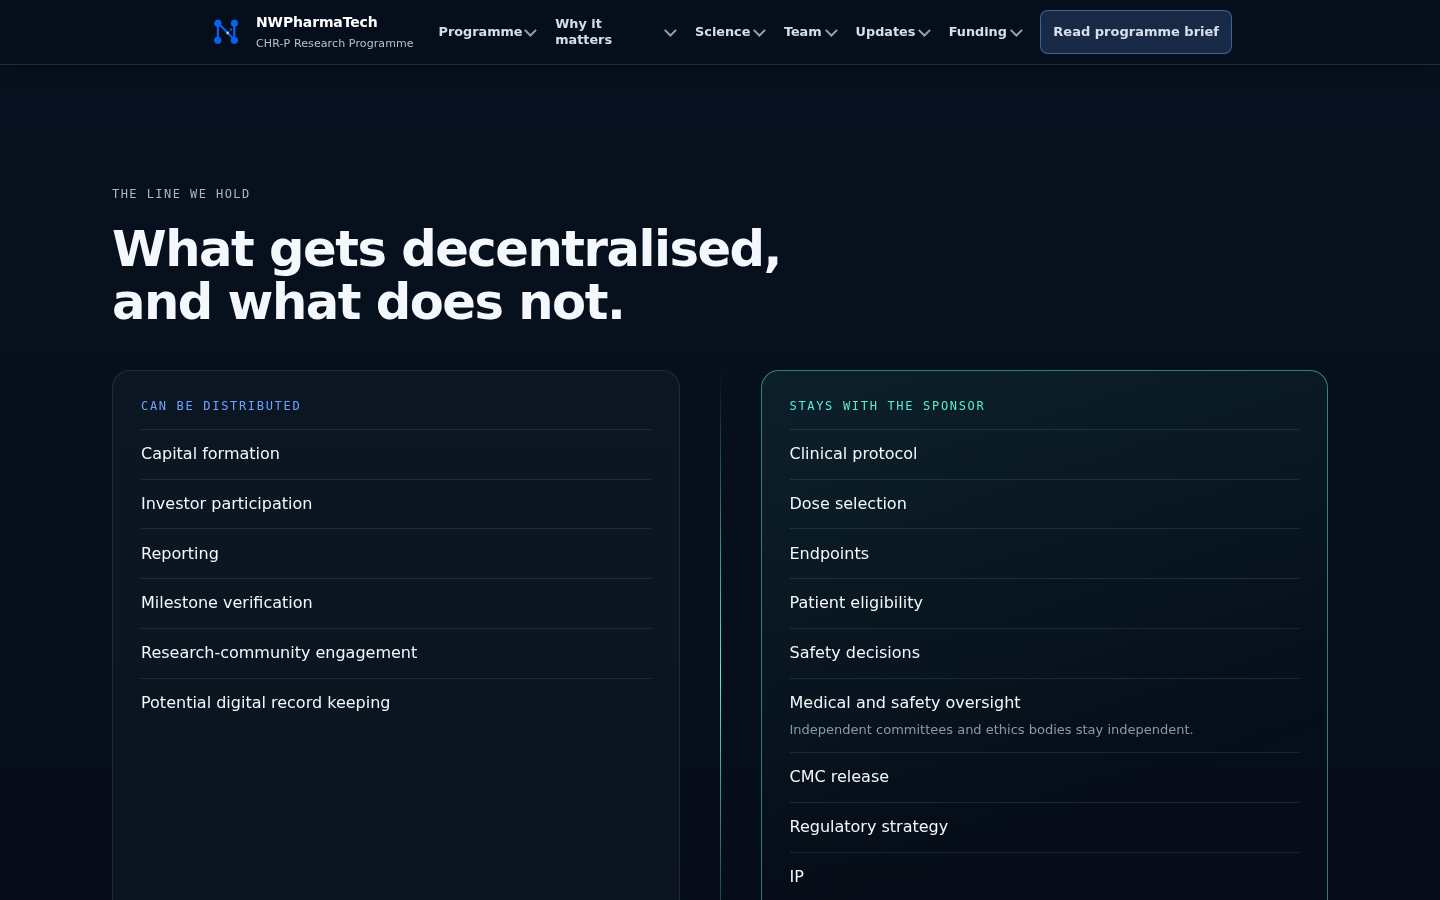
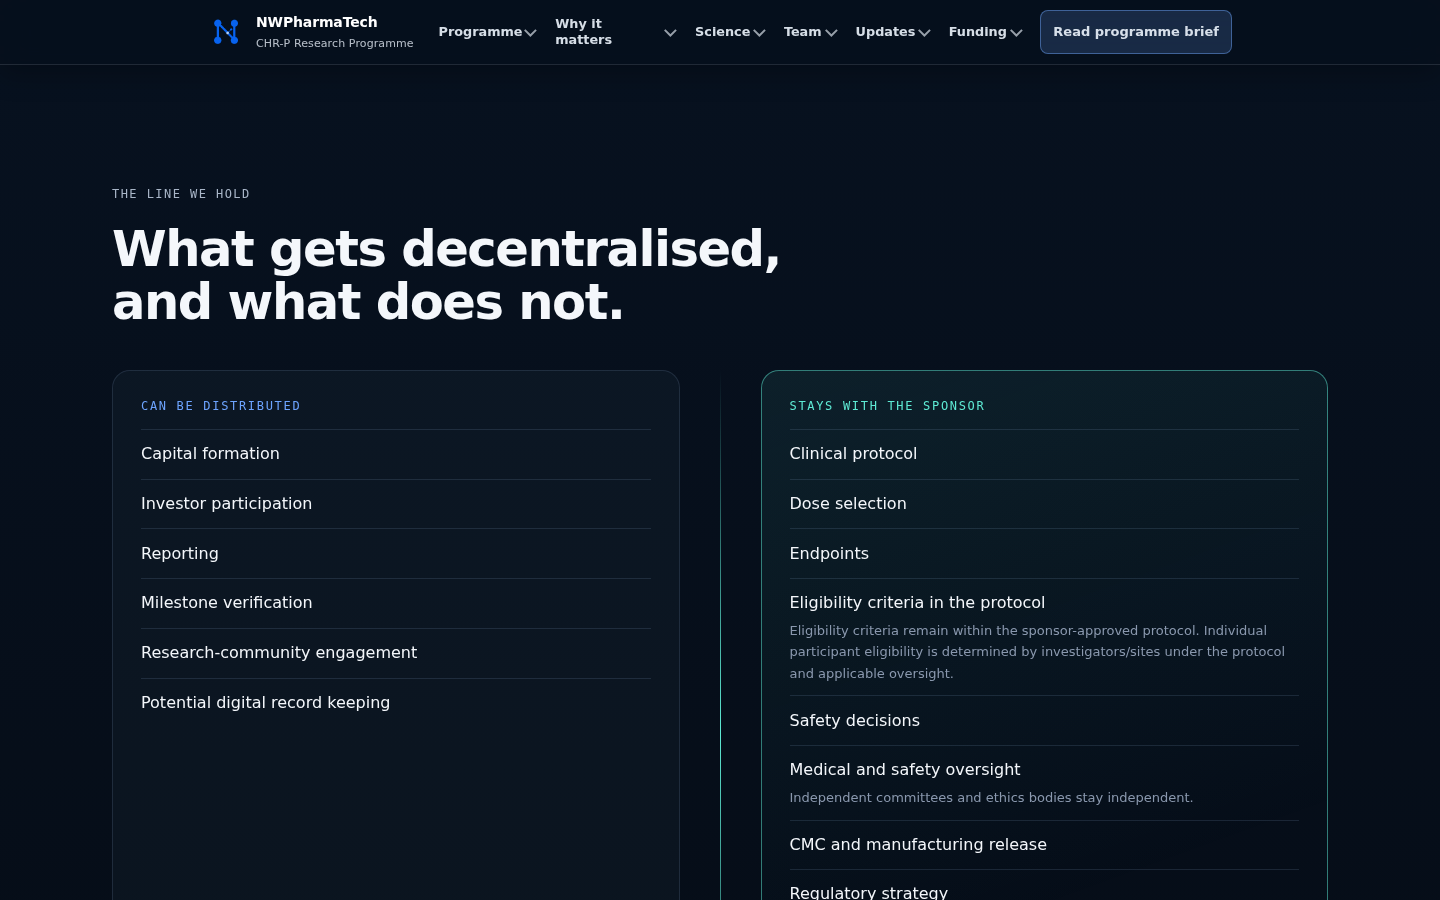
NWPT-055 final: checks recorded; first draw and reveal set-up in the next frame
Focused test 92/92; regression suites identical to base; Lighthouse
mobile 98/100/96/100, desktop 100/100/96/100. dpf.js runs its first
flow draw and reveal set-up in requestAnimationFrame, removing the
start-up forced layout. Re-captured sponsor layer, split, rails, FAQ.

Claude-Session: https://claude.ai/code/session_01TYdFtUNnf73gKgrVG8b6gR

Changed region(s): [[0.5312, 0.6533, 0.875, 1.0]]

diff --git a/nwpharmatech-website/release-032/site/dpf.js b/nwpharmatech-website/release-032/site/dpf.js
@@ -144,10 +144,10 @@
   }
   window.addEventListener("scroll", onScroll, { passive: true });
   window.addEventListener("resize", onScroll, { passive: true });
-  drawFlow();
+  onScroll();   // first draw in the next frame, not as a forced layout during start-up
 
   // ---- reveal cards that start below the fold (nothing already on screen is hidden, so nothing flashes)
-  if (motion && "IntersectionObserver" in window) {
+  if (motion && "IntersectionObserver" in window) window.requestAnimationFrame(function () {
     var io = new IntersectionObserver(function (entries) {
       entries.forEach(function (en) { if (en.isIntersecting) { en.target.classList.add("is-in"); io.unobserve(en.target); } });
     }, { threshold: 0.12, rootMargin: "0px 0px -6% 0px" });
@@ -160,7 +160,7 @@
       el.style.transitionDelay = (i % 3) * 70 + "ms";
       io.observe(el);
     });
-  }
+  });
 
   if (reduce.addEventListener) {
     reduce.addEventListener("change", function () {

diff --git a/nwpharmatech-website/release-032/records/DIGITAL-PROGRAMME-FINANCE-NWPT-055.md b/nwpharmatech-website/release-032/records/DIGITAL-PROGRAMME-FINANCE-NWPT-055.md
@@ -134,7 +134,24 @@ The page has no other external facts: no study numbers, percentages, prices, inv
 
 **Setup:** Chromium 141.0.7390.37 (Playwright 1.56.1) on the Cloudflare Pages runtime (`wrangler pages dev`). Google Fonts is blocked here, so fallback fonts were used. No physical devices were tested; Safari/iPhone is untested.
 
-**`tools/test-digital-finance.mjs` (new): 73/73.**
+**Final candidate: `tools/test-digital-finance.mjs` 92/92.** (73/73 on the first candidate `4e7ca63`.)
+
+The final run adds these checks:
+- the approved wording;
+- no “patient eligibility”;
+- the full sponsor-control list;
+- the digital-rails framing, with the diligence qualifier exactly once;
+- `_headers` changed only by the two Web Analytics hosts in each CSP.
+
+It also adds these for `/api/event`:
+- One data point holds exactly the event, path, link ID, UTM tags and time.
+- Email, IP, wallet and name are never persisted, even when posted, and an `@` UTM tag is dropped.
+- Unknown events and pages, cross-origin posts, form posts, oversized bodies and invalid JSON are refused, and nothing is stored.
+- Without the binding it answers 503; other methods get 405.
+- In the browser, every event is sent to `/api/event` with only the allowed fields.
+- With Global Privacy Control or Do Not Track, nothing is sent.
+
+Tests carried over from the first candidate:
 - **Content locks:**
   - all 16 hard-lock sentences present;
   - ~US$10m never called a raise, a fully funded trial or a token sale;
@@ -160,7 +177,7 @@ The page has no other external facts: no study numbers, percentages, prices, inv
 
 **Regression suites (base `1406893` → this candidate):**
 
-| Suite | Base | Candidate |
+| Suite | Base | Final candidate |
 |---|---|---|
 | `test-mobile-nav.mjs` | 23/23 (1,247 runs) | 23/23 (1,248 runs; the new menu link is included) |
 | `test-nwpt034.mjs` | 35/35 | 35/35 |
@@ -180,9 +197,11 @@ The generators are consistent: re-running `build-programme-room.py`, `build-work
 | Mobile | 98 | 100 | 96 | 100 | 2.2 s | 0 ms | 0 |
 | Desktop | 100 | 100 | 96 | 100 | 0.5 s | 0 ms | 0 |
 
-- **Best practices (96):** the only deduction is the console error from the blocked Google Fonts request, which is specific to this environment.
+The final candidate returned the same scores.
+
+- **Best practices (96):** the deductions are console errors from the blocked Google Fonts request (specific to this environment), and, on the final candidate, the `/api/event` 503 that is expected locally because there is no `NWPT_EVENTS` binding. With the binding the endpoint answers 204.
 - **Remaining notes** apply to the site-wide `styles.css` (unused rules, not minified) and the existing render-blocking font stylesheet. They are unchanged here.
-- **Fixed during review:** a forced reflow in `dpf.js` (layout reads now happen before writes).
+- **Fixed during review:** forced reflows in `dpf.js`. Layout reads now happen before writes, and the first draw and reveal set-up run in the next animation frame, so this page's reflows are each under 1 ms. The rest is unattributed browser layout plus the site-wide `nav.js`.
 
 **Screenshots:** `records/screens-nwpt055/`, desktop 1440×900 and phone 390×844:
 - `*-hero.png` and `*-full.png`;
